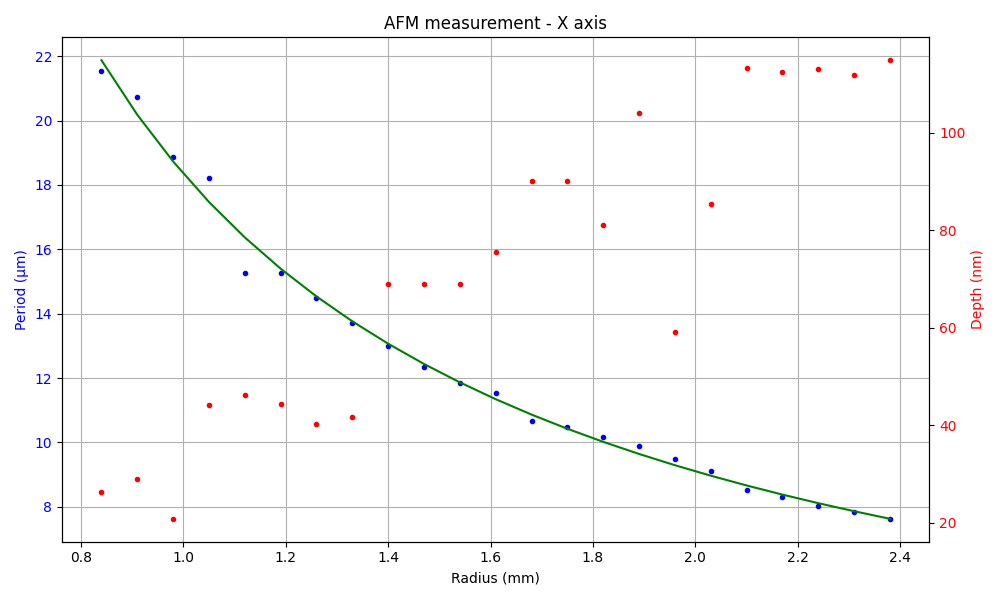
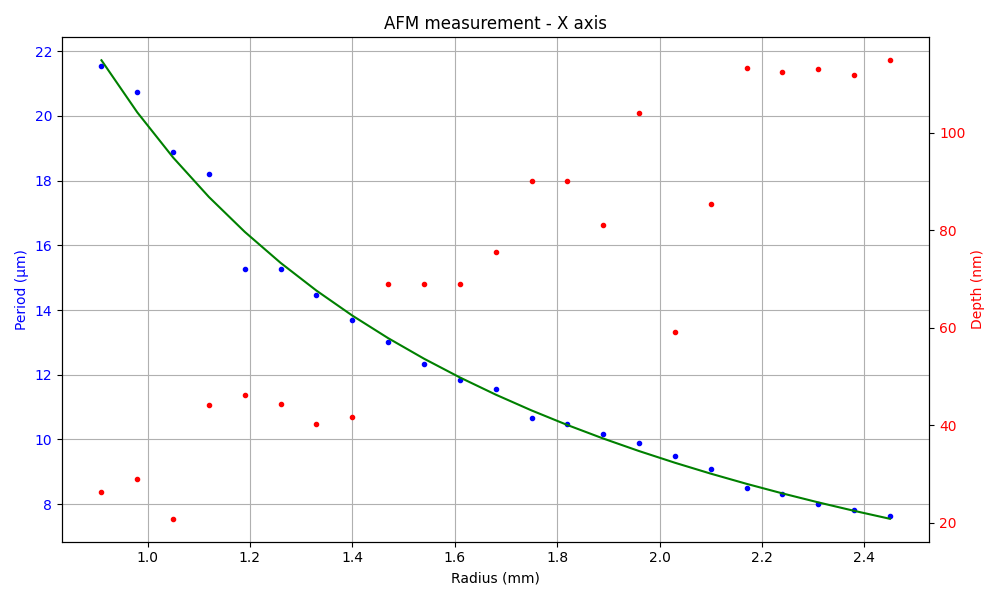
fixed wrong radii

diff --git a/Mika/plots/afm spp/afm_spp.py b/Mika/plots/afm spp/afm_spp.py
@@ -26,7 +26,7 @@ depth_x = np.array(depth_x)
 period_y = np.array(period_y)
 depth_y = np.array(depth_y)
 
-constants = opt.curve_fit(fit_func, radius, period_y)
+constants = opt.curve_fit(fit_func, radius, period_x)
 a, b = constants[0]
 
 # Calculate the fitted values
@@ -37,7 +37,7 @@ fit = fit_func(radius, a, b)
 fig, ax1 = plt.subplots(figsize=(10, 6))  # Set figure size here
 
 # Plot the first dataset (period vs. radius) on the left y-axis
-ax1.plot(radius, period_y, 'b.', label='Period')
+ax1.plot(radius, period_x, 'b.', label='Period')
 ax1.plot(radius, fit, 'g-', label=f'fit: a/x+b,\n a= {a:.2f}, b= {b:.2f}')
 ax1.set_xlabel("Radius (mm)")
 ax1.set_ylabel("Period (µm)", color="b")
@@ -45,17 +45,17 @@ ax1.tick_params(axis='y', labelcolor="b")
 
 # Create a second y-axis sharing the same x-axis
 ax2 = ax1.twinx()
-ax2.plot(radius, depth_y, 'r.', label='Depth')  # Changed to plot against radius
+ax2.plot(radius, depth_x, 'r.', label='Depth')  # Changed to plot against radius
 ax2.set_ylabel("Depth (nm)", color="r")
 ax2.tick_params(axis='y', labelcolor="r")
 
 # Add a title, legend, and grid
-plt.title("AFM measurement - Y axis")
+plt.title("AFM measurement - X axis")
 fig.tight_layout()  # Adjust layout to prevent overlap
 ax1.grid(True)
 
 # Save the figure
-plt.savefig("afm_ssp_y-axis.png")
+plt.savefig("afm_ssp_x-axis.png")
 
 # Show the plot
 plt.show()

diff --git a/Mika/test scripts/period investigation/test2.py b/Mika/test scripts/period investigation/test2.py
@@ -80,7 +80,8 @@ class SinePhasePlateGeneration:
         return images
 
     def __chirp_function(self, r):
-        f = self.__y_min + ((1 + scipy.signal.sawtooth(math.radians((2 * np.pi) / (self.__focal_length * self.__wavelength) * r ** 2))) / 2) * self.__y_peak_to_peak
+        x = np.pi / (self.__focal_length * self.__wavelength) * r ** 2
+        f = self.__y_min + ((1 + scipy.signal.sawtooth(x)) / 2) * self.__y_peak_to_peak
         return f
 
 def find_period(numbers):
@@ -104,7 +105,7 @@ def find_period(numbers):
         return None  # Return None if fewer than three minima are found
 
 
-foo = SinePhasePlateGeneration(2.5, 1, 635, 70, 65, 85)
+foo = SinePhasePlateGeneration(2.5, 30, 633, 70, 65, 85)
 
 waveform = foo.generate_waveform()
 
@@ -129,6 +130,13 @@ for i in range(foo.slm_count):
 
     csv_content.append(row)
 
-with open("period.csv", "w", newline="") as file:
+with open("period_test.csv", "w", newline="") as file:
     writer = csv.writer(file)
     writer.writerows(csv_content)
+
+plt.plot(waveform[-1920:])
+plt.show()
+
+images = foo.generate_images()
+for i, image in enumerate(images):
+    image.save(f"z_image{i}.png")

diff --git a/Mika/test scripts/period investigation/test4.py b/Mika/test scripts/period investigation/test4.py
@@ -1,0 +1,13 @@
+import numpy as np
+from scipy import signal
+import matplotlib.pyplot as plt
+import math
+
+
+def chirp_function(r):
+    f = 65 + ((1 + signal.sawtooth((180/np.pi)/((2 * np.pi) / (1*10**-3 * 633*10**-9) * r ** 2))) / 2) * 85
+    return f
+
+t = np.linspace(0, 1920, 1920)
+plt.plot(t, chirp_function(t))
+plt.show()
